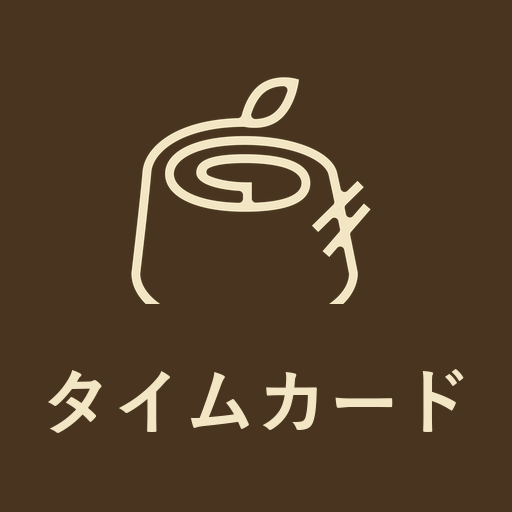
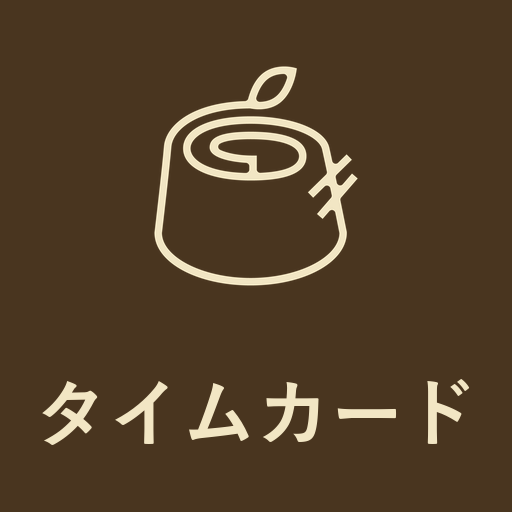
アイコンのロゴ下切れ修正・Android用manifest廃止・従業員名を拡大
- アイコン: ロゴマークの範囲を透過から自動検出して全体を収める（下切れ解消）＋余白確保
- iOS専用に。manifest.json / Android用metaを削除
- メンバー選択の氏名を拡大（PC27px/スマホ23px）＋カード幅拡大（老眼配慮）

diff --git a/index.html b/index.html
@@ -4,13 +4,10 @@
 <meta charset="UTF-8">
 <meta name="viewport" content="width=device-width, initial-scale=1.0, maximum-scale=1.0, user-scalable=no">
 <meta name="apple-mobile-web-app-capable" content="yes">
-<meta name="mobile-web-app-capable" content="yes">
 <meta name="apple-mobile-web-app-status-bar-style" content="default">
 <meta name="apple-mobile-web-app-title" content="タイムカード">
-<meta name="theme-color" content="#49351f">
 <link rel="apple-touch-icon" href="icon.png">
 <link rel="icon" type="image/png" href="icon.png">
-<link rel="manifest" href="manifest.json">
 <title>GARDENS タイムカード</title>
 <style>
   :root{
@@ -75,7 +72,7 @@
   .selhint{text-align:center;color:var(--ink-soft);font-size:16px;font-weight:600;margin:2px 0 12px;}
   .members{
     flex:1;overflow-y:auto;
-    display:grid;grid-template-columns:repeat(auto-fill,minmax(150px,1fr));
+    display:grid;grid-template-columns:repeat(auto-fill,minmax(172px,1fr));
     gap:14px;align-content:start;
     padding:14px 12px;margin:0 4px;
     background:rgba(255,255,255,.16);border:1px solid rgba(255,255,255,.5);
@@ -99,7 +96,7 @@
   .avatar{width:54px;height:54px;border-radius:50%;display:flex;align-items:center;justify-content:center;}
   .avatar svg{width:54px;height:54px;}
   .mno{font-size:12px;color:var(--ink-soft);font-weight:600;}
-  .mname{font-size:18px;font-weight:700;color:var(--ink);text-align:center;line-height:1.2;}
+  .mname{font-size:27px;font-weight:800;color:var(--ink);text-align:center;line-height:1.15;}
   .foot{display:flex;justify-content:space-between;align-items:center;color:var(--ink-soft);font-size:12px;padding:6px 10px 2px;font-weight:600;}
   #syncBadge{font-weight:700;}
 
@@ -204,7 +201,7 @@
     .gear svg{width:22px;height:22px;}
     .selhint{font-size:14px;margin:2px 0 8px;}
     .members{grid-template-columns:repeat(2,1fr);gap:10px;padding:10px;}
-    .mname{font-size:16px;}
+    .mname{font-size:23px;}
     .avatar,.avatar svg{width:48px;height:48px;}
     /* モーダル・打刻画面 */
     .sheet{padding:16px 14px 18px;}
